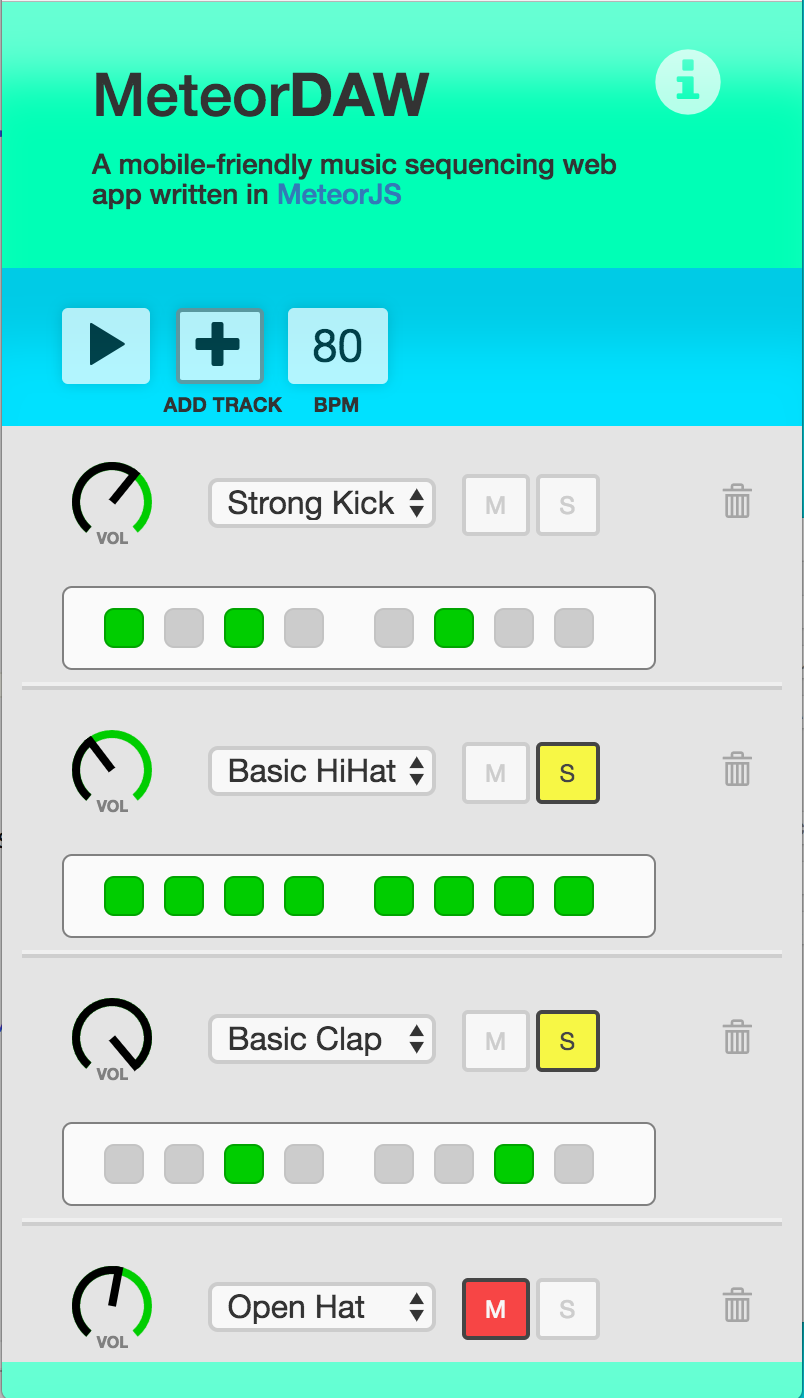
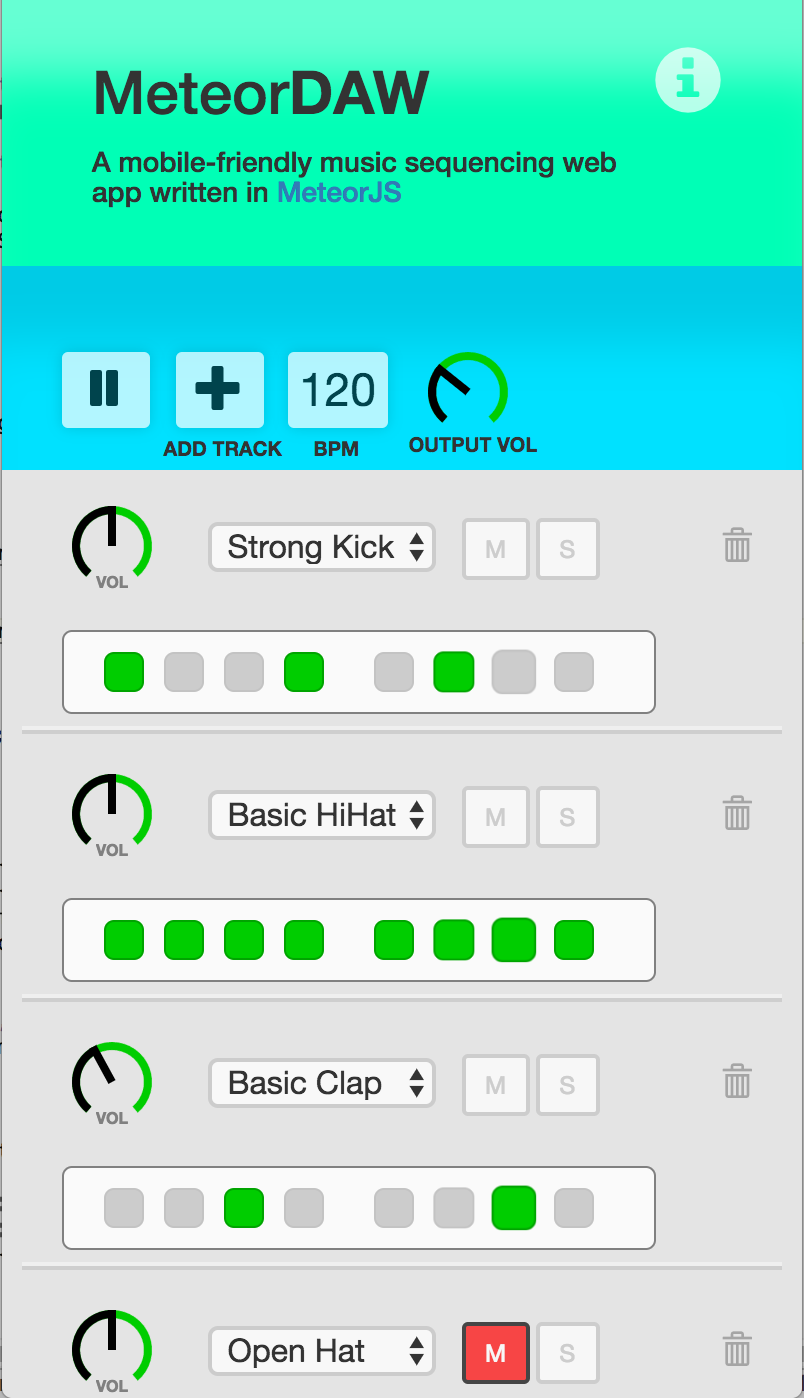
Added a master volume knob

diff --git a/client/application/application.js b/client/application/application.js
@@ -8,12 +8,13 @@ var inSoloMode = false;
 var inSoloModeTracker = new Tracker.Dependency();
 
 var audioCtx = new (window.AudioContext || window.webkitAudioContext)();
+var masterSource = new MasterSource(audioCtx);
 var audioSources = {};
 
 Template.application.onRendered(function(){    
    sequenceIsPlaying = false;
    SelectedSounds.find().forEach(function(sound){
-        audioSources[sound._id] = new Source(audioCtx, audioTagFor(sound._id)[0]);         
+        audioSources[sound._id] = new Source(audioCtx, audioTagFor(sound._id)[0], masterSource);  
     });
 });
 
@@ -21,6 +22,13 @@ Template.application.helpers({
     selectedSounds: function(){
         return SelectedSounds.find();
     }
+});
+
+Template.controlFrame.onRendered(function(){
+    new Knob(document.getElementById('master-volume-knob'), new Ui.P2());
+    $('input#master-volume-knob').change(function(){
+        updateMasterVolume($(this).val());
+    });
 });
 
 Template.controlFrame.helpers({
@@ -103,13 +111,24 @@ function trackIsDisabled(selectedSound) {
 
 // Plays the sound associated with a given track
 function playSound(selectedSoundId) {
-    var audioTag = audioTagFor(selectedSoundId)
-    audioTag.prop('currentTime', 0);
-    audioTag.trigger('play');
+    if(audioSources[selectedSoundId].gainNode.gain.value > 0 && masterSource.gainNode.gain.value > 0) {
+        var audioTag = audioTagFor(selectedSoundId);
+        audioTag.prop('currentTime', 0);
+        audioTag.trigger('play');
+    }
 }
 
 function updateSoundVolume(selectedSoundId, newVolume){
-    audioSources[selectedSoundId].gainNode.gain.value = newVolume;
+    audioSources[selectedSoundId].gainNode.gain.value = newVolume/10;
+}
+
+function updateMasterVolume(newVolume){
+    if(newVolume > 3) {
+        masterSource.gainNode.gain.value = newVolume/5;
+    }
+    else {
+        masterSource.gainNode.gain.value = newVolume/200;
+    }
 }
 
 Template.track.onRendered(function(){

diff --git a/client/application/main.html b/client/application/main.html
@@ -27,6 +27,11 @@
                     
                     <button class="large-button" id="add-track" ><span class="glyphicon glyphicon-plus"></span></button><label class="header-input-label" id="add-track-label">ADD TRACK</label>
                     <input class="header-input-box" id="tempo" value="80"/><label class="header-input-label" for="tempo">BPM</label>
+                    <span class="master-volume-knob-wrapper">
+                        <input class="volume-knob" id="master-volume-knob" type="range" min="0" max="10" data-width="40" 
+                        data-height="40" data-angleOffset="220" data-angleRange="280">
+                        <span class="knob-label">OUTPUT VOL</span>
+                    </span>
                 </div>
             </header>
             {{> application}}

diff --git a/lib/sounds.js b/lib/sounds.js
@@ -22,11 +22,19 @@ if(SelectedSounds.find().count() == 0) {
 }
 
 // Using the Web Audio API to map our Mongo sounds to sources
-Source = function(audioCtx, audioElement) {
+Source = function(audioCtx, audioElement, masterSource) {
     this.source = audioCtx.createMediaElementSource(audioElement);
     this.gainNode = audioCtx.createGain();
-    this.gainNode.gain.value = 1;
+    this.gainNode.gain.value = 0.5;
     this.source.connect(this.gainNode);
     this.gainNode.connect(audioCtx.destination);
-    
+    for(var node in masterSource) {
+        this.source.connect(masterSource[node]);
+    }
+}
+
+MasterSource = function(audioCtx) {
+    this.gainNode = audioCtx.createGain();
+    this.gainNode.gain.value = 0.2;
+    this.gainNode.connect(audioCtx.destination);
 }

diff --git a/client/application/track.css b/client/application/track.css
@@ -163,6 +163,23 @@ button.sequence-step.time-active {
     color:gray;
 }
 
+.master-volume-knob-wrapper {
+    display:inline-block;
+    position:relative;
+    top:23px;
+    margin-left:-10px;
+}
+
+.master-volume-knob-wrapper .knob-label {
+    font-size:10px;
+    font-weight:bold;
+    position:relative;
+    top:-1px;
+    left:-10px;
+    color:#333;
+}
+
+
 /* Volume knob settings, credit to http://eskimoblood.github.io/jim-knopf/*/
 .p2 path {
   stroke: none;
